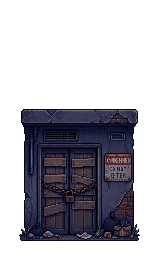
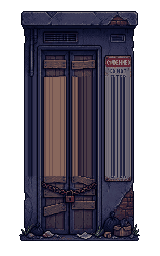
Make all 21 nc_building_wall panels the same height
Chief: bottom-alignment (00ff838) wasn't enough to combine wall pieces
freely — rooflines were still jagged because each panel's actual art
content ranged 132-230px tall. Normalized every panel to the SAME
230px content height (the tallest existing panel, abandoned_top3,
unchanged) instead of just the same bottom edge.

Method: self-sourced body-filler, not new art. For each panel shorter
than 230px, scanned the central 50% of its own content for the
flattest row-to-row transition (plain texture, no feature edge), then
duplicated that single row N times to make up the deficit, pushing
everything below it down. Cropped the equivalent amount of now-surplus
empty top padding back off so the canvas stays 256px. Verified by
rendering all 21 side-by-side (and a 6-panel old-vs-new comparison)
before writing to disk.

Result: every panel is now top_pad=11 / bottom_pad=15 / content_h=230,
identically. Recomputed trim fractions (assets/ASSET_MANIFEST.json)
to match the new content shape so selection boxes stay tight.

run_all.mjs: 2341 passed / 87 failed — same as current live baseline
(the +2 failed vs the 2343/85 session baseline is Chief's own level1
Builder saves shifting fixture-dependent prop_sources assertions, not
this change; isolated and confirmed by diffing against the pre-save
level1.json).

diff --git a/editor.html b/editor.html
@@ -231,7 +231,7 @@
   #parity-status { font-family:monospace; font-size:10px; letter-spacing:0.3px; line-height:1.6; margin-bottom:6px; }
 
 </style>
-<link rel="stylesheet" href="editor/workspace.css?v=3d1a338501e85d06">
+<link rel="stylesheet" href="editor/workspace.css?v=37b97cc7c08136d8">
 </head>
 <body>
 <div id="editor-root">
@@ -622,50 +622,50 @@
 <script type="importmap">
 {
   "imports": {
-    "./editor/actions.js": "./editor/actions.js?v=3d1a338501e85d06",
-    "./editor/assets.js": "./editor/assets.js?v=3d1a338501e85d06",
-    "./editor/buildinfo.js": "./editor/buildinfo.js?v=3d1a338501e85d06",
-    "./editor/clipboard.js": "./editor/clipboard.js?v=3d1a338501e85d06",
-    "./editor/facade.js": "./editor/facade.js?v=3d1a338501e85d06",
-    "./editor/generator.js": "./editor/generator.js?v=3d1a338501e85d06",
-    "./editor/hero-lab.js": "./editor/hero-lab.js?v=3d1a338501e85d06",
-    "./editor/history.js": "./editor/history.js?v=3d1a338501e85d06",
-    "./editor/level-shape.js": "./editor/level-shape.js?v=3d1a338501e85d06",
-    "./editor/localstore.js": "./editor/localstore.js?v=3d1a338501e85d06",
-    "./editor/main.js": "./editor/main.js?v=3d1a338501e85d06",
-    "./editor/persistence.js": "./editor/persistence.js?v=3d1a338501e85d06",
-    "./editor/renderer.js": "./editor/renderer.js?v=3d1a338501e85d06",
-    "./editor/selection.js": "./editor/selection.js?v=3d1a338501e85d06",
-    "./editor/snapshots.js": "./editor/snapshots.js?v=3d1a338501e85d06",
-    "./editor/snapshotui.js": "./editor/snapshotui.js?v=3d1a338501e85d06",
-    "./editor/state.js": "./editor/state.js?v=3d1a338501e85d06",
-    "./editor/tools.js": "./editor/tools.js?v=3d1a338501e85d06",
-    "./editor/workspace.js": "./editor/workspace.js?v=3d1a338501e85d06",
-    "./src_scroll/background.js": "./src_scroll/background.js?v=3d1a338501e85d06",
-    "./src_scroll/camera.js": "./src_scroll/camera.js?v=3d1a338501e85d06",
-    "./src_scroll/city-drones.js": "./src_scroll/city-drones.js?v=3d1a338501e85d06",
-    "./src_scroll/constants.js": "./src_scroll/constants.js?v=3d1a338501e85d06",
-    "./src_scroll/drone-weapons.js": "./src_scroll/drone-weapons.js?v=3d1a338501e85d06",
-    "./src_scroll/electricity.js": "./src_scroll/electricity.js?v=3d1a338501e85d06",
-    "./src_scroll/energy-hud.js": "./src_scroll/energy-hud.js?v=3d1a338501e85d06",
-    "./src_scroll/entities.js": "./src_scroll/entities.js?v=3d1a338501e85d06",
-    "./src_scroll/hero-render.js": "./src_scroll/hero-render.js?v=3d1a338501e85d06",
-    "./src_scroll/hero-sprites.js": "./src_scroll/hero-sprites.js?v=3d1a338501e85d06",
-    "./src_scroll/input.js": "./src_scroll/input.js?v=3d1a338501e85d06",
-    "./src_scroll/level.js": "./src_scroll/level.js?v=3d1a338501e85d06",
-    "./src_scroll/levelsig.js": "./src_scroll/levelsig.js?v=3d1a338501e85d06",
-    "./src_scroll/main.js": "./src_scroll/main.js?v=3d1a338501e85d06",
-    "./src_scroll/player.js": "./src_scroll/player.js?v=3d1a338501e85d06",
-    "./src_scroll/render.js": "./src_scroll/render.js?v=3d1a338501e85d06",
-    "./src_scroll/source-visuals.js": "./src_scroll/source-visuals.js?v=3d1a338501e85d06",
-    "./src_scroll/sprites.js": "./src_scroll/sprites.js?v=3d1a338501e85d06",
-    "./src_scroll/terrain-policy.js": "./src_scroll/terrain-policy.js?v=3d1a338501e85d06",
-    "./src_scroll/ui.js": "./src_scroll/ui.js?v=3d1a338501e85d06",
-    "./src_scroll/viewport.js": "./src_scroll/viewport.js?v=3d1a338501e85d06"
+    "./editor/actions.js": "./editor/actions.js?v=37b97cc7c08136d8",
+    "./editor/assets.js": "./editor/assets.js?v=37b97cc7c08136d8",
+    "./editor/buildinfo.js": "./editor/buildinfo.js?v=37b97cc7c08136d8",
+    "./editor/clipboard.js": "./editor/clipboard.js?v=37b97cc7c08136d8",
+    "./editor/facade.js": "./editor/facade.js?v=37b97cc7c08136d8",
+    "./editor/generator.js": "./editor/generator.js?v=37b97cc7c08136d8",
+    "./editor/hero-lab.js": "./editor/hero-lab.js?v=37b97cc7c08136d8",
+    "./editor/history.js": "./editor/history.js?v=37b97cc7c08136d8",
+    "./editor/level-shape.js": "./editor/level-shape.js?v=37b97cc7c08136d8",
+    "./editor/localstore.js": "./editor/localstore.js?v=37b97cc7c08136d8",
+    "./editor/main.js": "./editor/main.js?v=37b97cc7c08136d8",
+    "./editor/persistence.js": "./editor/persistence.js?v=37b97cc7c08136d8",
+    "./editor/renderer.js": "./editor/renderer.js?v=37b97cc7c08136d8",
+    "./editor/selection.js": "./editor/selection.js?v=37b97cc7c08136d8",
+    "./editor/snapshots.js": "./editor/snapshots.js?v=37b97cc7c08136d8",
+    "./editor/snapshotui.js": "./editor/snapshotui.js?v=37b97cc7c08136d8",
+    "./editor/state.js": "./editor/state.js?v=37b97cc7c08136d8",
+    "./editor/tools.js": "./editor/tools.js?v=37b97cc7c08136d8",
+    "./editor/workspace.js": "./editor/workspace.js?v=37b97cc7c08136d8",
+    "./src_scroll/background.js": "./src_scroll/background.js?v=37b97cc7c08136d8",
+    "./src_scroll/camera.js": "./src_scroll/camera.js?v=37b97cc7c08136d8",
+    "./src_scroll/city-drones.js": "./src_scroll/city-drones.js?v=37b97cc7c08136d8",
+    "./src_scroll/constants.js": "./src_scroll/constants.js?v=37b97cc7c08136d8",
+    "./src_scroll/drone-weapons.js": "./src_scroll/drone-weapons.js?v=37b97cc7c08136d8",
+    "./src_scroll/electricity.js": "./src_scroll/electricity.js?v=37b97cc7c08136d8",
+    "./src_scroll/energy-hud.js": "./src_scroll/energy-hud.js?v=37b97cc7c08136d8",
+    "./src_scroll/entities.js": "./src_scroll/entities.js?v=37b97cc7c08136d8",
+    "./src_scroll/hero-render.js": "./src_scroll/hero-render.js?v=37b97cc7c08136d8",
+    "./src_scroll/hero-sprites.js": "./src_scroll/hero-sprites.js?v=37b97cc7c08136d8",
+    "./src_scroll/input.js": "./src_scroll/input.js?v=37b97cc7c08136d8",
+    "./src_scroll/level.js": "./src_scroll/level.js?v=37b97cc7c08136d8",
+    "./src_scroll/levelsig.js": "./src_scroll/levelsig.js?v=37b97cc7c08136d8",
+    "./src_scroll/main.js": "./src_scroll/main.js?v=37b97cc7c08136d8",
+    "./src_scroll/player.js": "./src_scroll/player.js?v=37b97cc7c08136d8",
+    "./src_scroll/render.js": "./src_scroll/render.js?v=37b97cc7c08136d8",
+    "./src_scroll/source-visuals.js": "./src_scroll/source-visuals.js?v=37b97cc7c08136d8",
+    "./src_scroll/sprites.js": "./src_scroll/sprites.js?v=37b97cc7c08136d8",
+    "./src_scroll/terrain-policy.js": "./src_scroll/terrain-policy.js?v=37b97cc7c08136d8",
+    "./src_scroll/ui.js": "./src_scroll/ui.js?v=37b97cc7c08136d8",
+    "./src_scroll/viewport.js": "./src_scroll/viewport.js?v=37b97cc7c08136d8"
   }
 }
 </script>
 <!-- END GENERATED EDITOR MODULE VERSIONS -->
-<script type="module" src="editor/main.js?v=3d1a338501e85d06"></script>
+<script type="module" src="editor/main.js?v=37b97cc7c08136d8"></script>
 </body>
 </html>

diff --git a/hero-lab.html b/hero-lab.html
@@ -37,50 +37,50 @@
 <script type="importmap">
 {
   "imports": {
-    "./editor/actions.js": "./editor/actions.js?v=3d1a338501e85d06",
-    "./editor/assets.js": "./editor/assets.js?v=3d1a338501e85d06",
-    "./editor/buildinfo.js": "./editor/buildinfo.js?v=3d1a338501e85d06",
-    "./editor/clipboard.js": "./editor/clipboard.js?v=3d1a338501e85d06",
-    "./editor/facade.js": "./editor/facade.js?v=3d1a338501e85d06",
-    "./editor/generator.js": "./editor/generator.js?v=3d1a338501e85d06",
-    "./editor/hero-lab.js": "./editor/hero-lab.js?v=3d1a338501e85d06",
-    "./editor/history.js": "./editor/history.js?v=3d1a338501e85d06",
-    "./editor/level-shape.js": "./editor/level-shape.js?v=3d1a338501e85d06",
-    "./editor/localstore.js": "./editor/localstore.js?v=3d1a338501e85d06",
-    "./editor/main.js": "./editor/main.js?v=3d1a338501e85d06",
-    "./editor/persistence.js": "./editor/persistence.js?v=3d1a338501e85d06",
-    "./editor/renderer.js": "./editor/renderer.js?v=3d1a338501e85d06",
-    "./editor/selection.js": "./editor/selection.js?v=3d1a338501e85d06",
-    "./editor/snapshots.js": "./editor/snapshots.js?v=3d1a338501e85d06",
-    "./editor/snapshotui.js": "./editor/snapshotui.js?v=3d1a338501e85d06",
-    "./editor/state.js": "./editor/state.js?v=3d1a338501e85d06",
-    "./editor/tools.js": "./editor/tools.js?v=3d1a338501e85d06",
-    "./editor/workspace.js": "./editor/workspace.js?v=3d1a338501e85d06",
-    "./src_scroll/background.js": "./src_scroll/background.js?v=3d1a338501e85d06",
-    "./src_scroll/camera.js": "./src_scroll/camera.js?v=3d1a338501e85d06",
-    "./src_scroll/city-drones.js": "./src_scroll/city-drones.js?v=3d1a338501e85d06",
-    "./src_scroll/constants.js": "./src_scroll/constants.js?v=3d1a338501e85d06",
-    "./src_scroll/drone-weapons.js": "./src_scroll/drone-weapons.js?v=3d1a338501e85d06",
-    "./src_scroll/electricity.js": "./src_scroll/electricity.js?v=3d1a338501e85d06",
-    "./src_scroll/energy-hud.js": "./src_scroll/energy-hud.js?v=3d1a338501e85d06",
-    "./src_scroll/entities.js": "./src_scroll/entities.js?v=3d1a338501e85d06",
-    "./src_scroll/hero-render.js": "./src_scroll/hero-render.js?v=3d1a338501e85d06",
-    "./src_scroll/hero-sprites.js": "./src_scroll/hero-sprites.js?v=3d1a338501e85d06",
-    "./src_scroll/input.js": "./src_scroll/input.js?v=3d1a338501e85d06",
-    "./src_scroll/level.js": "./src_scroll/level.js?v=3d1a338501e85d06",
-    "./src_scroll/levelsig.js": "./src_scroll/levelsig.js?v=3d1a338501e85d06",
-    "./src_scroll/main.js": "./src_scroll/main.js?v=3d1a338501e85d06",
-    "./src_scroll/player.js": "./src_scroll/player.js?v=3d1a338501e85d06",
-    "./src_scroll/render.js": "./src_scroll/render.js?v=3d1a338501e85d06",
-    "./src_scroll/source-visuals.js": "./src_scroll/source-visuals.js?v=3d1a338501e85d06",
-    "./src_scroll/sprites.js": "./src_scroll/sprites.js?v=3d1a338501e85d06",
-    "./src_scroll/terrain-policy.js": "./src_scroll/terrain-policy.js?v=3d1a338501e85d06",
-    "./src_scroll/ui.js": "./src_scroll/ui.js?v=3d1a338501e85d06",
-    "./src_scroll/viewport.js": "./src_scroll/viewport.js?v=3d1a338501e85d06"
+    "./editor/actions.js": "./editor/actions.js?v=37b97cc7c08136d8",
+    "./editor/assets.js": "./editor/assets.js?v=37b97cc7c08136d8",
+    "./editor/buildinfo.js": "./editor/buildinfo.js?v=37b97cc7c08136d8",
+    "./editor/clipboard.js": "./editor/clipboard.js?v=37b97cc7c08136d8",
+    "./editor/facade.js": "./editor/facade.js?v=37b97cc7c08136d8",
+    "./editor/generator.js": "./editor/generator.js?v=37b97cc7c08136d8",
+    "./editor/hero-lab.js": "./editor/hero-lab.js?v=37b97cc7c08136d8",
+    "./editor/history.js": "./editor/history.js?v=37b97cc7c08136d8",
+    "./editor/level-shape.js": "./editor/level-shape.js?v=37b97cc7c08136d8",
+    "./editor/localstore.js": "./editor/localstore.js?v=37b97cc7c08136d8",
+    "./editor/main.js": "./editor/main.js?v=37b97cc7c08136d8",
+    "./editor/persistence.js": "./editor/persistence.js?v=37b97cc7c08136d8",
+    "./editor/renderer.js": "./editor/renderer.js?v=37b97cc7c08136d8",
+    "./editor/selection.js": "./editor/selection.js?v=37b97cc7c08136d8",
+    "./editor/snapshots.js": "./editor/snapshots.js?v=37b97cc7c08136d8",
+    "./editor/snapshotui.js": "./editor/snapshotui.js?v=37b97cc7c08136d8",
+    "./editor/state.js": "./editor/state.js?v=37b97cc7c08136d8",
+    "./editor/tools.js": "./editor/tools.js?v=37b97cc7c08136d8",
+    "./editor/workspace.js": "./editor/workspace.js?v=37b97cc7c08136d8",
+    "./src_scroll/background.js": "./src_scroll/background.js?v=37b97cc7c08136d8",
+    "./src_scroll/camera.js": "./src_scroll/camera.js?v=37b97cc7c08136d8",
+    "./src_scroll/city-drones.js": "./src_scroll/city-drones.js?v=37b97cc7c08136d8",
+    "./src_scroll/constants.js": "./src_scroll/constants.js?v=37b97cc7c08136d8",
+    "./src_scroll/drone-weapons.js": "./src_scroll/drone-weapons.js?v=37b97cc7c08136d8",
+    "./src_scroll/electricity.js": "./src_scroll/electricity.js?v=37b97cc7c08136d8",
+    "./src_scroll/energy-hud.js": "./src_scroll/energy-hud.js?v=37b97cc7c08136d8",
+    "./src_scroll/entities.js": "./src_scroll/entities.js?v=37b97cc7c08136d8",
+    "./src_scroll/hero-render.js": "./src_scroll/hero-render.js?v=37b97cc7c08136d8",
+    "./src_scroll/hero-sprites.js": "./src_scroll/hero-sprites.js?v=37b97cc7c08136d8",
+    "./src_scroll/input.js": "./src_scroll/input.js?v=37b97cc7c08136d8",
+    "./src_scroll/level.js": "./src_scroll/level.js?v=37b97cc7c08136d8",
+    "./src_scroll/levelsig.js": "./src_scroll/levelsig.js?v=37b97cc7c08136d8",
+    "./src_scroll/main.js": "./src_scroll/main.js?v=37b97cc7c08136d8",
+    "./src_scroll/player.js": "./src_scroll/player.js?v=37b97cc7c08136d8",
+    "./src_scroll/render.js": "./src_scroll/render.js?v=37b97cc7c08136d8",
+    "./src_scroll/source-visuals.js": "./src_scroll/source-visuals.js?v=37b97cc7c08136d8",
+    "./src_scroll/sprites.js": "./src_scroll/sprites.js?v=37b97cc7c08136d8",
+    "./src_scroll/terrain-policy.js": "./src_scroll/terrain-policy.js?v=37b97cc7c08136d8",
+    "./src_scroll/ui.js": "./src_scroll/ui.js?v=37b97cc7c08136d8",
+    "./src_scroll/viewport.js": "./src_scroll/viewport.js?v=37b97cc7c08136d8"
   }
 }
 </script>
 <!-- END GENERATED HERO LAB MODULE VERSIONS -->
-<script type="module" src="editor/hero-lab.js?v=3d1a338501e85d06"></script>
+<script type="module" src="editor/hero-lab.js?v=37b97cc7c08136d8"></script>
 </body>
 </html>

diff --git a/index.html b/index.html
@@ -49,50 +49,50 @@
 <script type="importmap">
 {
   "imports": {
-    "./editor/actions.js": "./editor/actions.js?v=3d1a338501e85d06",
-    "./editor/assets.js": "./editor/assets.js?v=3d1a338501e85d06",
-    "./editor/buildinfo.js": "./editor/buildinfo.js?v=3d1a338501e85d06",
-    "./editor/clipboard.js": "./editor/clipboard.js?v=3d1a338501e85d06",
-    "./editor/facade.js": "./editor/facade.js?v=3d1a338501e85d06",
-    "./editor/generator.js": "./editor/generator.js?v=3d1a338501e85d06",
-    "./editor/hero-lab.js": "./editor/hero-lab.js?v=3d1a338501e85d06",
-    "./editor/history.js": "./editor/history.js?v=3d1a338501e85d06",
-    "./editor/level-shape.js": "./editor/level-shape.js?v=3d1a338501e85d06",
-    "./editor/localstore.js": "./editor/localstore.js?v=3d1a338501e85d06",
-    "./editor/main.js": "./editor/main.js?v=3d1a338501e85d06",
-    "./editor/persistence.js": "./editor/persistence.js?v=3d1a338501e85d06",
-    "./editor/renderer.js": "./editor/renderer.js?v=3d1a338501e85d06",
-    "./editor/selection.js": "./editor/selection.js?v=3d1a338501e85d06",
-    "./editor/snapshots.js": "./editor/snapshots.js?v=3d1a338501e85d06",
-    "./editor/snapshotui.js": "./editor/snapshotui.js?v=3d1a338501e85d06",
-    "./editor/state.js": "./editor/state.js?v=3d1a338501e85d06",
-    "./editor/tools.js": "./editor/tools.js?v=3d1a338501e85d06",
-    "./editor/workspace.js": "./editor/workspace.js?v=3d1a338501e85d06",
-    "./src_scroll/background.js": "./src_scroll/background.js?v=3d1a338501e85d06",
-    "./src_scroll/camera.js": "./src_scroll/camera.js?v=3d1a338501e85d06",
-    "./src_scroll/city-drones.js": "./src_scroll/city-drones.js?v=3d1a338501e85d06",
-    "./src_scroll/constants.js": "./src_scroll/constants.js?v=3d1a338501e85d06",
-    "./src_scroll/drone-weapons.js": "./src_scroll/drone-weapons.js?v=3d1a338501e85d06",
-    "./src_scroll/electricity.js": "./src_scroll/electricity.js?v=3d1a338501e85d06",
-    "./src_scroll/energy-hud.js": "./src_scroll/energy-hud.js?v=3d1a338501e85d06",
-    "./src_scroll/entities.js": "./src_scroll/entities.js?v=3d1a338501e85d06",
-    "./src_scroll/hero-render.js": "./src_scroll/hero-render.js?v=3d1a338501e85d06",
-    "./src_scroll/hero-sprites.js": "./src_scroll/hero-sprites.js?v=3d1a338501e85d06",
-    "./src_scroll/input.js": "./src_scroll/input.js?v=3d1a338501e85d06",
-    "./src_scroll/level.js": "./src_scroll/level.js?v=3d1a338501e85d06",
-    "./src_scroll/levelsig.js": "./src_scroll/levelsig.js?v=3d1a338501e85d06",
-    "./src_scroll/main.js": "./src_scroll/main.js?v=3d1a338501e85d06",
-    "./src_scroll/player.js": "./src_scroll/player.js?v=3d1a338501e85d06",
-    "./src_scroll/render.js": "./src_scroll/render.js?v=3d1a338501e85d06",
-    "./src_scroll/source-visuals.js": "./src_scroll/source-visuals.js?v=3d1a338501e85d06",
-    "./src_scroll/sprites.js": "./src_scroll/sprites.js?v=3d1a338501e85d06",
-    "./src_scroll/terrain-policy.js": "./src_scroll/terrain-policy.js?v=3d1a338501e85d06",
-    "./src_scroll/ui.js": "./src_scroll/ui.js?v=3d1a338501e85d06",
-    "./src_scroll/viewport.js": "./src_scroll/viewport.js?v=3d1a338501e85d06"
+    "./editor/actions.js": "./editor/actions.js?v=37b97cc7c08136d8",
+    "./editor/assets.js": "./editor/assets.js?v=37b97cc7c08136d8",
+    "./editor/buildinfo.js": "./editor/buildinfo.js?v=37b97cc7c08136d8",
+    "./editor/clipboard.js": "./editor/clipboard.js?v=37b97cc7c08136d8",
+    "./editor/facade.js": "./editor/facade.js?v=37b97cc7c08136d8",
+    "./editor/generator.js": "./editor/generator.js?v=37b97cc7c08136d8",
+    "./editor/hero-lab.js": "./editor/hero-lab.js?v=37b97cc7c08136d8",
+    "./editor/history.js": "./editor/history.js?v=37b97cc7c08136d8",
+    "./editor/level-shape.js": "./editor/level-shape.js?v=37b97cc7c08136d8",
+    "./editor/localstore.js": "./editor/localstore.js?v=37b97cc7c08136d8",
+    "./editor/main.js": "./editor/main.js?v=37b97cc7c08136d8",
+    "./editor/persistence.js": "./editor/persistence.js?v=37b97cc7c08136d8",
+    "./editor/renderer.js": "./editor/renderer.js?v=37b97cc7c08136d8",
+    "./editor/selection.js": "./editor/selection.js?v=37b97cc7c08136d8",
+    "./editor/snapshots.js": "./editor/snapshots.js?v=37b97cc7c08136d8",
+    "./editor/snapshotui.js": "./editor/snapshotui.js?v=37b97cc7c08136d8",
+    "./editor/state.js": "./editor/state.js?v=37b97cc7c08136d8",
+    "./editor/tools.js": "./editor/tools.js?v=37b97cc7c08136d8",
+    "./editor/workspace.js": "./editor/workspace.js?v=37b97cc7c08136d8",
+    "./src_scroll/background.js": "./src_scroll/background.js?v=37b97cc7c08136d8",
+    "./src_scroll/camera.js": "./src_scroll/camera.js?v=37b97cc7c08136d8",
+    "./src_scroll/city-drones.js": "./src_scroll/city-drones.js?v=37b97cc7c08136d8",
+    "./src_scroll/constants.js": "./src_scroll/constants.js?v=37b97cc7c08136d8",
+    "./src_scroll/drone-weapons.js": "./src_scroll/drone-weapons.js?v=37b97cc7c08136d8",
+    "./src_scroll/electricity.js": "./src_scroll/electricity.js?v=37b97cc7c08136d8",
+    "./src_scroll/energy-hud.js": "./src_scroll/energy-hud.js?v=37b97cc7c08136d8",
+    "./src_scroll/entities.js": "./src_scroll/entities.js?v=37b97cc7c08136d8",
+    "./src_scroll/hero-render.js": "./src_scroll/hero-render.js?v=37b97cc7c08136d8",
+    "./src_scroll/hero-sprites.js": "./src_scroll/hero-sprites.js?v=37b97cc7c08136d8",
+    "./src_scroll/input.js": "./src_scroll/input.js?v=37b97cc7c08136d8",
+    "./src_scroll/level.js": "./src_scroll/level.js?v=37b97cc7c08136d8",
+    "./src_scroll/levelsig.js": "./src_scroll/levelsig.js?v=37b97cc7c08136d8",
+    "./src_scroll/main.js": "./src_scroll/main.js?v=37b97cc7c08136d8",
+    "./src_scroll/player.js": "./src_scroll/player.js?v=37b97cc7c08136d8",
+    "./src_scroll/render.js": "./src_scroll/render.js?v=37b97cc7c08136d8",
+    "./src_scroll/source-visuals.js": "./src_scroll/source-visuals.js?v=37b97cc7c08136d8",
+    "./src_scroll/sprites.js": "./src_scroll/sprites.js?v=37b97cc7c08136d8",
+    "./src_scroll/terrain-policy.js": "./src_scroll/terrain-policy.js?v=37b97cc7c08136d8",
+    "./src_scroll/ui.js": "./src_scroll/ui.js?v=37b97cc7c08136d8",
+    "./src_scroll/viewport.js": "./src_scroll/viewport.js?v=37b97cc7c08136d8"
   }
 }
 </script>
 <!-- END GENERATED GAME MODULE VERSIONS -->
-<script type="module" src="src_scroll/main.js?v=3d1a338501e85d06"></script>
+<script type="module" src="src_scroll/main.js?v=37b97cc7c08136d8"></script>
 </body>
 </html>

diff --git a/editor/buildinfo.js b/editor/buildinfo.js
@@ -1,9 +1,9 @@
 // GENERATED by scripts/build_info.mjs — do not hand-edit.
 export const BUILD = {
   "branch": "agent/aki-editor",
-  "shaShort": "a72d7a5",
-  "shaFull": "a72d7a59754a154e41a1346bc13bb19b4da5ee92",
+  "shaShort": "c1fa5be",
+  "shaFull": "c1fa5be4bb8cce50864d246019f278b41cf3ba99",
   "worktree": "overcharge-aki",
   "dirty": true,
-  "generated": "2026-10-02T23:13:00.080Z"
+  "generated": "2026-10-02T23:22:29.851Z"
 };
